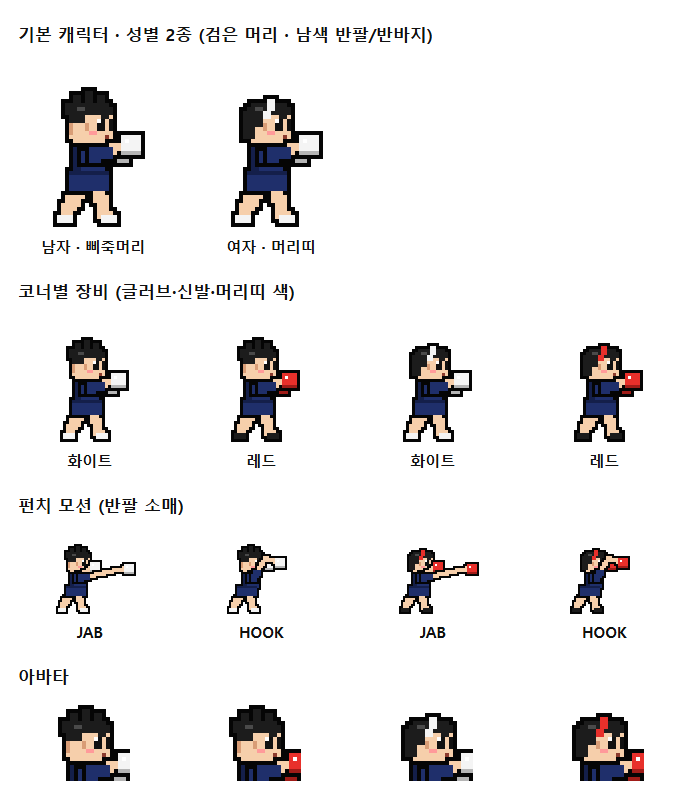
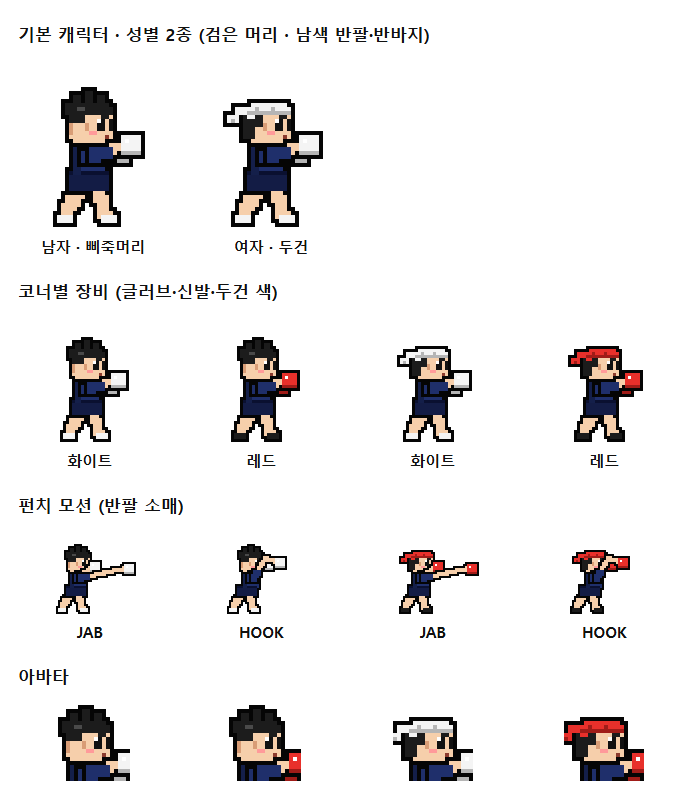
feat: 여자 캐릭터 머리띠를 두건으로 변경, 반바지 색을 더 진하게
- 여자: 정수리를 덮고 뒤로 묶는 두건 (매듭 꼬리, 코너 색)
- 반바지를 반팔보다 조금 더 진한 남색으로 바꿔 상의와 구분
- README와 docs/characters.png 갱신

diff --git a/public/arena.js b/public/arena.js
@@ -32,7 +32,7 @@
     R: { glove: '#e8302b', gloveS: '#a01c18', shoe: '#1b1b1b', tag: '#ff4b45', band: '#e8302b' },
   };
   const HAIR = ['#1c1c1c', '#4a4a4a'];                 // 검은 머리 (기본색, 하이라이트)
-  const CLOTH = { c: '#1f2f6b', s: '#141f4a' };         // 남색 반팔·반바지 (기본색, 그늘)
+  const CLOTH = { c: '#1f2f6b', s: '#141f4a', p: '#131c45', ps: '#0a1030' }; // 남색 반팔(c·s) / 조금 더 진한 남색 반바지(p·ps)
 
   const clamp01 = (t) => Math.max(0, Math.min(1, t));
   const bump = (t) => Math.sin(Math.PI * clamp01(t));
@@ -78,17 +78,19 @@
   function drawHead(g, hx, hy, look, st, face) {
     const [hc, hl] = HAIR, girl = look.gender === 'F';
     const outer = [rc(hx + 2, hy + 1, 9, 10, C.skin), rc(hx + 1, hy + 2, 11, 8, C.skin)];
-    // 머리 밖으로 삐져나오는 헤어: 남자 = 삐죽머리, 여자 = 뒷머리 + 머리띠
-    if (girl) outer.push(rc(hx, hy + 3, 3, 7, hc), rc(hx + 6, hy, 2, 1, st.band));
+    // 머리 밖으로 삐져나오는 헤어: 남자 = 삐죽머리, 여자 = 뒷머리 + 두건 매듭 꼬리
+    if (girl) outer.push(rc(hx, hy + 4, 3, 6, hc), rc(hx - 2, hy + 2, 3, 2, st.band), rc(hx - 4, hy + 4, 3, 2, st.band));
     else outer.push(rc(hx + 2, hy - 1, 2, 2, hc), rc(hx + 5, hy - 2, 2, 3, hc), rc(hx + 8, hy - 1, 2, 2, hc), rc(hx, hy + 1, 2, 3, hc));
     group(g, outer);
     const R = (x, y, w, h, c) => { g.fillStyle = c; g.fillRect(hx + x, hy + y, w, h); };
     R(1, 3, 1, 6, C.skinS); R(5, 6, 1, 2, C.skinS); // 뒤통수 그늘, 귀
     // 헤어
     R(2, 1, 9, 1, hc); R(1, 2, 11, 2, hc); R(9, 4, 2, 1, hc);
-    if (girl) { R(0, 4, 5, 3, hc); R(0, 7, 3, 3, hc); R(6, 0, 2, 3, st.band); R(5, 3, 2, 2, st.band); }
-    else R(1, 4, 4, 2, hc);
-    R(3, 2, 2, 1, hl);
+    if (girl) { // 두건: 정수리를 덮고 뒤로 묶음
+      R(0, 4, 5, 3, hc); R(0, 7, 3, 3, hc);
+      R(2, 1, 9, 1, st.band); R(1, 2, 11, 2, st.band); R(1, 4, 2, 1, st.band);
+      R(1, 3, 11, 1, st.gloveS); R(3, 2, 1, 1, st.gloveS); R(7, 2, 1, 1, st.gloveS); R(-3, 5, 1, 1, st.gloveS);
+    } else { R(1, 4, 4, 2, hc); R(3, 2, 2, 1, hl); }
     // 얼굴 (오른쪽을 본다)
     if (face === 'ko') {
       R(8, 5, 1, 1, C.eye); R(10, 5, 1, 1, C.eye); R(9, 6, 1, 1, C.eye); R(8, 7, 1, 1, C.eye); R(10, 7, 1, 1, C.eye);
@@ -177,11 +179,11 @@
       const kx = 2 + k * 8, ky = -9 - k * 6;
       body.push(lb(2, -9, kx, ky, 3, C.skin), lb(kx, ky, kx - 1, ky + 7, 3, C.skin), rc(kx - 3, ky + 6, 4, 2, st.shoe));
     } else body.push(lb(2, -9, fL[0], -2, 3, C.skin), rc(fL[0] - 1, -2, 4, 2, st.shoe));
-    body.push(rc(-5 + Math.round(ux / 3), -13 + Math.round(uy / 2), 10, 5, CLOTH.c)); // 반바지
+    body.push(rc(-5 + Math.round(ux / 3), -13 + Math.round(uy / 2), 10, 5, CLOTH.p)); // 반바지
     body.push(rc(-4 + ux, -20 + uy, 8, 8, CLOTH.c));                                   // 반팔 티
     group(g, body);
-    g.fillStyle = CLOTH.s; g.fillRect(-5 + Math.round(ux / 3), -13 + Math.round(uy / 2), 10, 1); // 허리 그늘
-    g.fillRect(-4 + ux, -20 + uy, 2, 8);
+    g.fillStyle = CLOTH.ps; g.fillRect(-5 + Math.round(ux / 3), -13 + Math.round(uy / 2), 10, 1); // 허리 밴드
+    g.fillStyle = CLOTH.s; g.fillRect(-4 + ux, -20 + uy, 2, 8);
     // 3. 머리
     drawHead(g, -6 + ux + hdx, -31 + uy + hdy, look, st, face);
     // 4. 뒷팔 → 5. 앞팔

diff --git a/README.md b/README.md
@@ -84,8 +84,8 @@ Redis 환경변수가 있으면 **Upstash Redis**, 없으면 로컬 파일.
 - `PixelFighter.url(id, {pose})` 로 같은 캐릭터를 아바타·프로필에도 사용, 로그인 화면은 데모 스파링
 
 ### 캐릭터 스킨
-기본 캐릭터는 **성별로만 구분**합니다: 남자 = 삐죽머리, 여자 = 머리띠 (둘 다 검은 머리), 옷은 공통으로 **남색 반팔·반바지**.
-성별은 코치가 회원 등록/수정 때 고르며, 값이 없는 기존 회원은 남자로 표시됩니다. 장비 색은 코너로 정해집니다: 화이트 코너(흰 글러브·신발·머리띠) / 레드 코너(빨간 글러브·머리띠, 검정 신발).
+기본 캐릭터는 **성별로만 구분**합니다: 남자 = 삐죽머리, 여자 = 뒤로 묶는 두건 (둘 다 검은 머리), 옷은 공통으로 **남색 반팔·반바지** (반바지가 조금 더 진한 남색).
+성별은 코치가 회원 등록/수정 때 고르며, 값이 없는 기존 회원은 남자로 표시됩니다. 장비 색은 코너로 정해집니다: 화이트 코너(흰 글러브·신발·두건) / 레드 코너(빨간 글러브·두건, 검정 신발).
 
 ![가능한 캐릭터](docs/characters.png)
 
